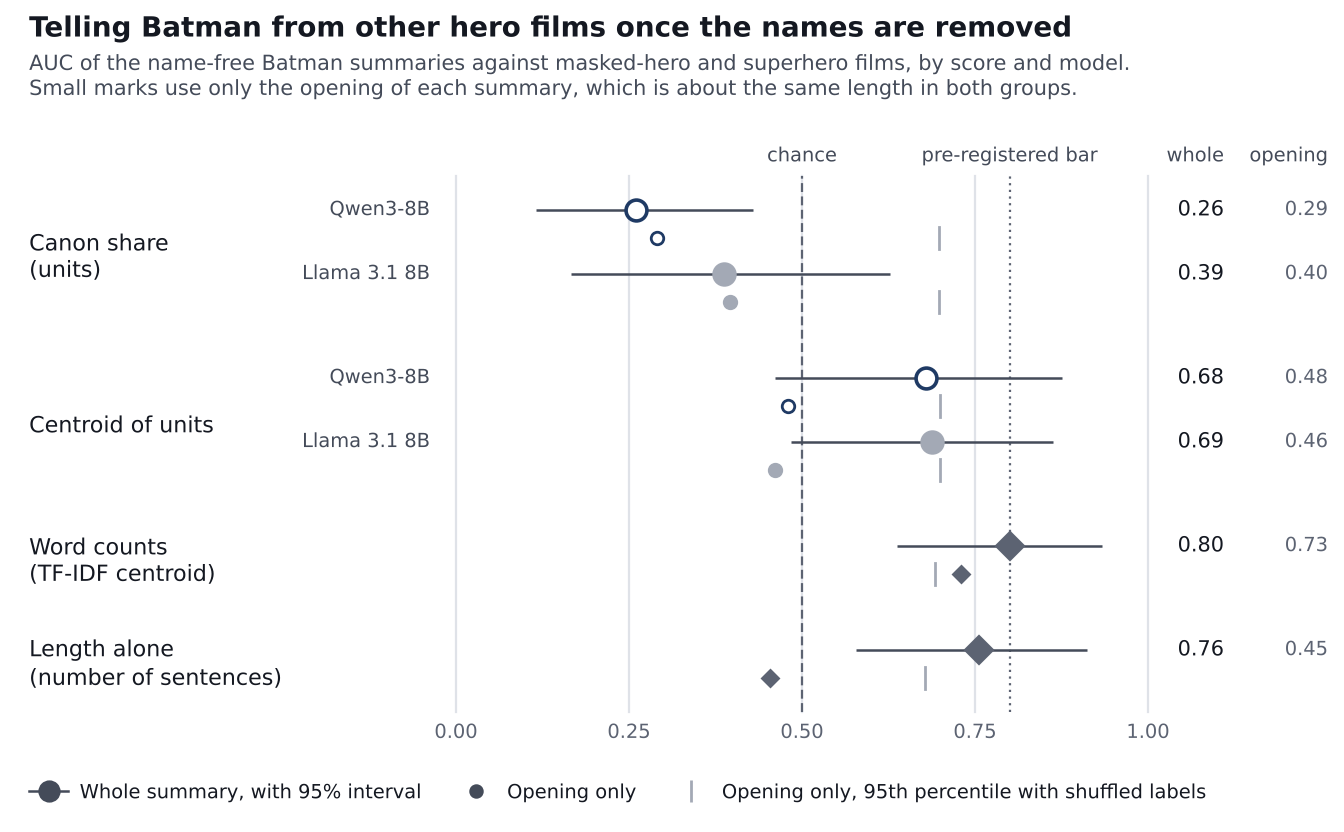
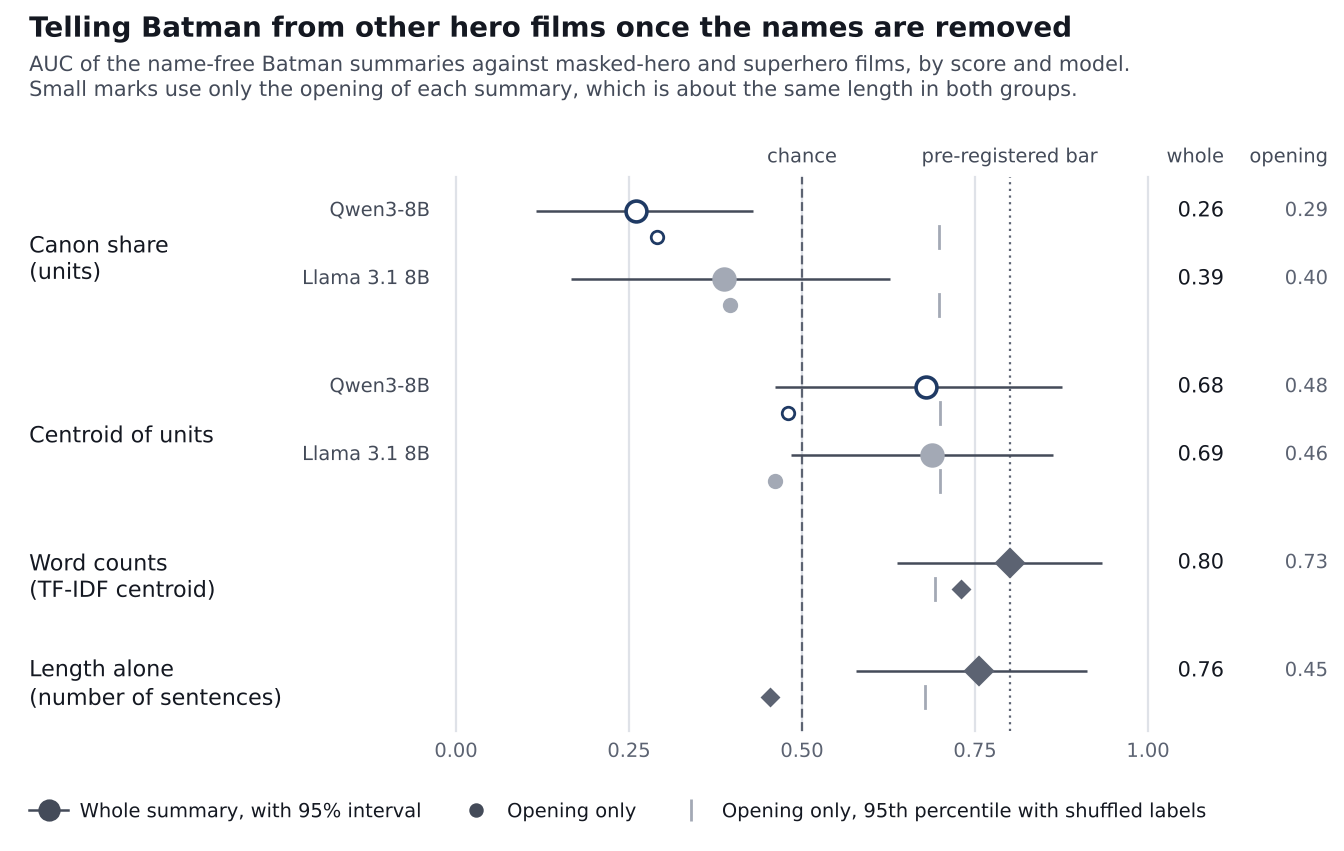
v2: sensitivity grid can run several settings at a time (same values); ablation driver script
Claude-Session: https://claude.ai/code/session_01SXTr7peSy2zrFo8Xec1cJT

diff --git a/study/v2/figs/identity.py b/study/v2/figs/identity.py
@@ -4,9 +4,11 @@ A horizontal dot plot of the AUC with which each score separates the name-free B
 masked-hero and superhero films (0.5 is chance). Rows, top to bottom: the canon share and the centroid of
 units, one line per model, then two word-based comparators (the TF-IDF centroid and text length alone).
 The large mark is the AUC on whole summaries, with its 95% interval as a line. The small mark under it is
-the AUC on the openings only, which are about the same length in both groups; the grey tick on its line is
-the 95th percentile of the openings' label-shuffle null. (The whole-summary null is read too but not drawn:
-its tick sat behind the marks. Set TICK_WHOLE to draw it.) Both AUCs are printed at the right.
+the AUC on the openings only, which are the same length in both groups; the grey tick on its line is the
+95th percentile of the openings' own label-shuffle null. Both AUCs are printed at the right.
+
+The whole-summary shuffle null is not drawn. Its tick sat behind the marks, and the plan (v2/PLAN.md,
+section 6) does not count it, because shuffling the labels does not remove the length difference.
 
 Reads results/v2/experiments_v2.json (or $RESULTS_DIR/experiments_v2.json) and draws whichever of the four
 models are in it. Writes fig_identity.png to paper/v2/ (or $PAPER_DIR).
@@ -14,7 +16,6 @@ models are in it. Writes fig_identity.png to paper/v2/ (or $PAPER_DIR).
     cd study && ../.venv/bin/python v2/figs/identity.py
 """
 import json
-import math
 import os
 import sys
 from pathlib import Path
@@ -47,9 +48,8 @@ UNIT_SCORES = [("canon_share", "Canon share\n(units)"), ("unit_centroid", "Centr
 WORD_SCORES = [("tfidf_centroid", "Word counts\n(TF-IDF centroid)"),
                ("length_alone_sentences", "Length alone\n(number of sentences)")]
 WHOLE, OPENING, AGAINST = "A_name_free", "openings", "hero_film_cousins"
-CHANCE = 0.5        # an AUC of one half is chance by definition; it is not a result
-TICK_WHOLE = False  # the whole-summary shuffle tick hides behind the marks, so only the openings get one
-FS = 7              # labels; nothing is below 6.5 pt
+CHANCE = 0.5  # an AUC of one half is chance by definition; it is not a result
+FS = 7        # labels; nothing is below 6.5 pt
 
 
 def read(block, version):
@@ -58,11 +58,6 @@ def read(block, version):
     if AGAINST not in v:
         return None
     return {**v[AGAINST], "p95": (v.get("null_label_shuffle") or {}).get("p95")}
-
-
-def two(x):
-    """Two decimals with halves rounded up (an AUC over 32 x 8 pairs can be exactly 0.625)."""
-    return f"{math.floor(x * 100 + 0.5) / 100:.2f}"
 
 
 # ---- rows: (score label, [(row name, marker, face, edge, that score's block in the results), ...]) ----
@@ -81,7 +76,7 @@ BAR = float(next(k for b in blocks for k in b.get("clauses", {}) if k.startswith
 # ---- layout, in inches ----
 W = style.WIDTH_IN - 0.16             # the tight crop adds 0.08 in on each side
 LEFT, RIGHT, BOTTOM = 2.2, 0.9, 0.52  # label columns; value columns; tick labels and legend
-PITCH, GAP, DROP, PAD = 0.32, 0.20, 0.14, 0.17  # row pitch; extra between groups; drop of the small mark; ends
+PITCH, GAP, DROP, PAD = 0.34, 0.20, 0.13, 0.17  # row pitch; extra between groups; drop of the small mark; ends
 n_rows = sum(len(rows) for _, rows in groups)
 ax_h = 2 * PAD + (n_rows - 1) * PITCH + (len(groups) - 1) * GAP + DROP
 H = (ax_h + BOTTOM + 0.14 * (SUBTITLE.count("\n") + 1) + 0.34) / 0.94  # style.title sets the subtitle 6% down
@@ -125,15 +120,15 @@ for label, rows in groups:
         ax.text(at(LEFT - 0.13), y, name, ha="right", va="center", fontsize=FS, color=style.INK_2)
         if whole and whole.get("ci95"):
             ax.plot(whole["ci95"], [y, y], color=style.INK_2, lw=0.9, zorder=3, solid_capstyle="butt", clip_on=False)
-        for cell, yy, ms, mew, x_text, fs, ink, tick in (
-                (whole, y, size, 1.3, X_WHOLE, 7.5, style.INK, TICK_WHOLE),
-                (opening, y + DROP, 0.6 * size, 1.0, X_OPENING, FS, style.INK_3, True)):
+        if opening and opening["p95"] is not None:  # the openings' shuffle null; taller than the small mark
+            ax.plot([opening["p95"]] * 2, [y + DROP - 0.055, y + DROP + 0.055], color=GREY, lw=1.0, zorder=2)
+        for cell, yy, ms, mew, x_text, fs, ink in ((whole, y, size, 1.3, X_WHOLE, 7.5, style.INK),
+                                                   (opening, y + DROP, 0.6 * size, 1.0, X_OPENING, FS, style.INK_3)):
             if cell is None:
                 continue
-            if tick and cell["p95"] is not None:  # label-shuffle null, 95th percentile; taller than the small mark
-                ax.plot([cell["p95"]] * 2, [yy - 0.055, yy + 0.055], color=GREY, lw=1.0, zorder=2)
             ax.plot(cell["auc"], yy, marker=marker, ms=ms, mfc=face, mec=edge, mew=mew, zorder=4, clip_on=False)
-            ax.text(x_text, y, two(cell["auc"]), ha="right", va="center", fontsize=fs, color=ink)
+            # two decimals, formatted as in v2/analysis/paper_tables.py so that figure and tables agree
+            ax.text(x_text, y, f"{cell['auc']:.2f}", ha="right", va="center", fontsize=fs, color=ink)
         y += PITCH
     y += GAP
 

diff --git a/study/v2/analysis/sensitivity_v2.py b/study/v2/analysis/sensitivity_v2.py
@@ -10,10 +10,12 @@ regressors also include word presence under the same cap (PLAN.md Section 18, ch
 placeholder codes left in, the token after each code masked too, the raw product with the echo regime left in, weak
 poles left out (under 10% and under 25% of the neuron's stronger pole), and units scaled by the supplement left out.
 
-    cd study && ../.venv/bin/python v2/analysis/sensitivity_v2.py [model-tag ...]
+    cd study && ../.venv/bin/python v2/analysis/sensitivity_v2.py [model-tag ...]        (SENS_WORKERS=3 runs three settings at a time)
 
 Writes results/v2/sensitivity_<tag>.json.
 """
+import multiprocessing
+import os
 import sys
 import time
 
@@ -44,24 +46,36 @@ def flat(r, **extra):
                 E3_rho=r["E3"]["rho"], E3_p=r["E3"]["p_one_sided"], E3_units=r["E3"]["n_units"], E3_evaluable=r["E3"]["evaluable"])
 
 
+EXTRA = (("reference-only scale", {"which": "ref"}), ("fifth-example scale", {"which": "ref5"}), ("openings", {"variant": "cut"}),
+         ("codes left in", {"variant": "codes"}), ("token after each code masked too", {"variant": "after"}),
+         ("echo regime left in", {"variant": "raw"}), ("poles under 10% of the stronger pole left out", {"min_dominance": 0.10}),
+         ("poles under 25% of the stronger pole left out", {"min_dominance": 0.25}),
+         ("units scaled by the supplement left out", {"drop_supplement": True}))
+
+
+def block(job):
+    """One threshold and score with every cap, or one other version at the primary setting. Every setting seeds its own
+    random numbers (experiments_v2.run_setting), so the blocks give the same values in any order or in parallel."""
+    tag, kind, a, b = job
+    if kind == "grid":
+        st = C.Setting(tag, a, b, icon=False)
+        return [flat(E.run_setting(st, None, cap, cap, full=False, centroid="all" if cap is None else "capped"), cell="grid",
+                     cap="none" if cap is None else cap) for cap in C.CAPS]
+    st = C.Setting(tag, C.THETA, "top1", icon=False, **b)
+    return [flat(E.run_setting(st, None, C.CAP, None, full=False), cell=a)]
+
+
 def run_model(tag):
     t0 = time.time()
-    grid, extra = [], []
-    for th in THETAS:
-        for sc in SCORES:
-            st = C.Setting(tag, th, sc, icon=False)
-            for cap in C.CAPS:
-                grid.append(flat(E.run_setting(st, None, cap, cap, full=False, centroid="all" if cap is None else "capped"), cell="grid",
-                                 cap="none" if cap is None else cap))
-            del st
-    for name, kw in (("reference-only scale", {"which": "ref"}), ("fifth-example scale", {"which": "ref5"}), ("openings", {"variant": "cut"}),
-                     ("codes left in", {"variant": "codes"}), ("token after each code masked too", {"variant": "after"}),
-                     ("echo regime left in", {"variant": "raw"}), ("poles under 10% of the stronger pole left out", {"min_dominance": 0.10}),
-                     ("poles under 25% of the stronger pole left out", {"min_dominance": 0.25}),
-                     ("units scaled by the supplement left out", {"drop_supplement": True})):
-        st = C.Setting(tag, C.THETA, "top1", icon=False, **kw)
-        extra.append(flat(E.run_setting(st, None, C.CAP, None, full=False), cell=name))
-        del st
+    jobs = [(tag, "grid", th, sc) for th in THETAS for sc in SCORES] + [(tag, "extra", name, kw) for name, kw in EXTRA]
+    workers = int(os.environ.get("SENS_WORKERS", "1"))
+    if workers > 1:
+        with multiprocessing.get_context("fork").Pool(workers, maxtasksperchild=1) as pool:
+            done = pool.map(block, jobs, chunksize=1)
+    else:
+        done = [block(j) for j in jobs]
+    grid = [r for j, rows in zip(jobs, done) if j[1] == "grid" for r in rows]
+    extra = [r for j, rows in zip(jobs, done) if j[1] == "extra" for r in rows]
     prim = [r for r in grid if r["theta"] == C.THETA and r["score"] == "top1"]
     auc = np.array([r["E1_auc"] for r in grid])
     dec = [r for r in grid if r["cap"] == "none"]

diff --git a/study/v2/figs/heredity.py b/study/v2/figs/heredity.py
@@ -31,7 +31,7 @@ from matplotlib.lines import Line2D  # noqa: E402
 from matplotlib.patches import FancyBboxPatch  # noqa: E402
 from matplotlib.ticker import MultipleLocator  # noqa: E402
 
-TITLE = "Where each screen adaptation's documented source comic ranks"
+TITLE = "Where the documented source comic of each screen adaptation ranks"
 SUBTITLE = "Eligible comics are ranked by how many of their optional units the adaptation carries, or by word counts alone"
 PANEL_A = "Rank of the documented source among the eligible comics (the grey slots; 1st = closest)"
 PANEL_B = "Share of eligible comics that beat the documented source, averaged over the adaptations"
@@ -39,11 +39,12 @@ X_LABEL = "Share of eligible comics that beat the source (0 = the source is alwa
 ROWS_B = ["Units", "Word counts: TF-IDF", "Word counts: word presence", "Units, after word counts\nare regressed out"]
 
 # tag in the result file, display name, mark. The primary model is the solid dark dot; the others are quieter.
+# The marks are about 5 pt across, so that four of them fit side by side in one slot of panel A without touching.
 MODELS = [
-    ("qwen3-32b", "Qwen3-32B", dict(marker="o", ms=5.5, mfc=style.NIGHT, mec="white", mew=0.3)),
-    ("qwen3-8b", "Qwen3-8B", dict(marker="o", ms=4.3, mfc="white", mec=style.NIGHT, mew=1.1)),
-    ("llama3.1-8b", "Llama 3.1 8B", dict(marker="o", ms=5.1, mfc=style.SHARED, mec="white", mew=0.3)),
-    ("llama3.3-70b", "Llama 3.3 70B", dict(marker="o", ms=4.3, mfc="white", mec=style.SHARED, mew=1.1)),
+    ("qwen3-32b", "Qwen3-32B", dict(marker="o", ms=5.3, mfc=style.NIGHT, mec="white", mew=0.3)),
+    ("qwen3-8b", "Qwen3-8B", dict(marker="o", ms=3.9, mfc="white", mec=style.NIGHT, mew=1.0)),
+    ("llama3.1-8b", "Llama 3.1 8B", dict(marker="o", ms=4.9, mfc=style.SHARED, mec="white", mew=0.3)),
+    ("llama3.3-70b", "Llama 3.3 70B", dict(marker="o", ms=3.9, mfc="white", mec=style.SHARED, mew=1.0)),
 ]
 TFIDF = dict(marker="D", ms=4.0, mfc=style.INK_3, mec="white", mew=0.5)     # word counts are not a model: diamonds
 PRESENCE = dict(marker="D", ms=3.2, mfc="white", mec=style.INK_3, mew=0.9)
